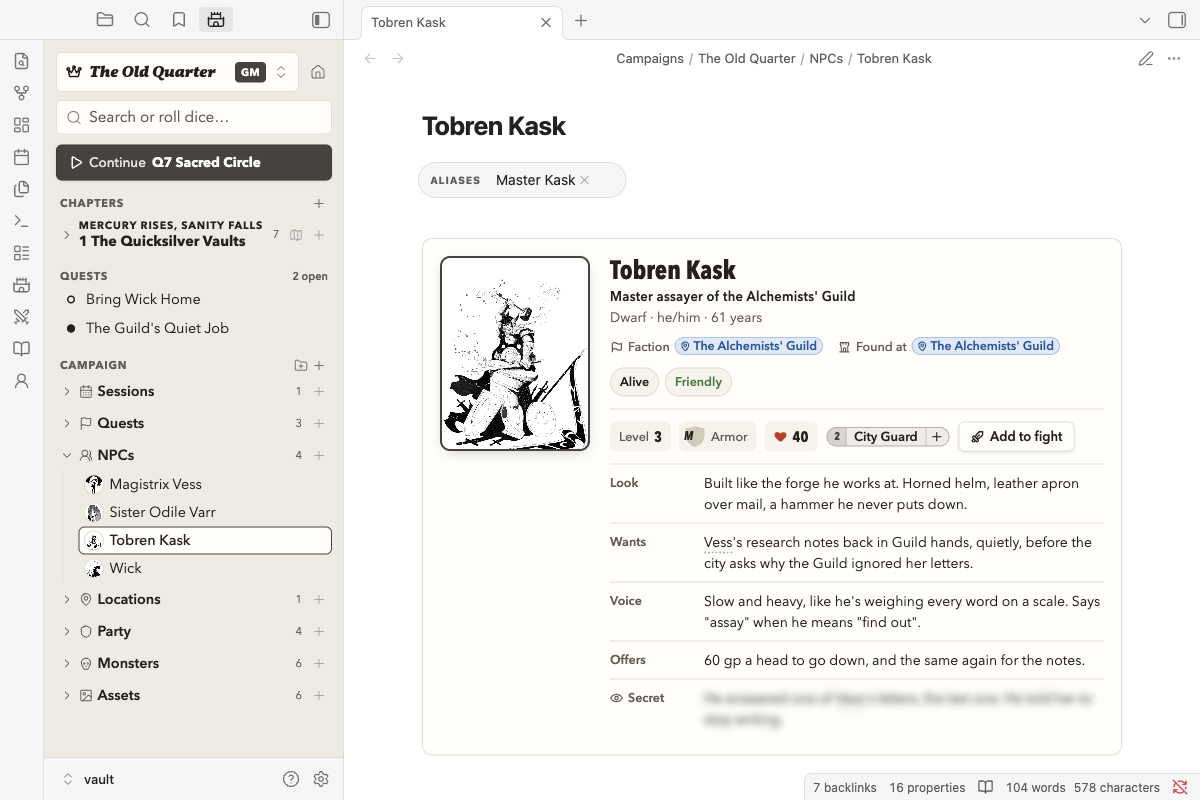
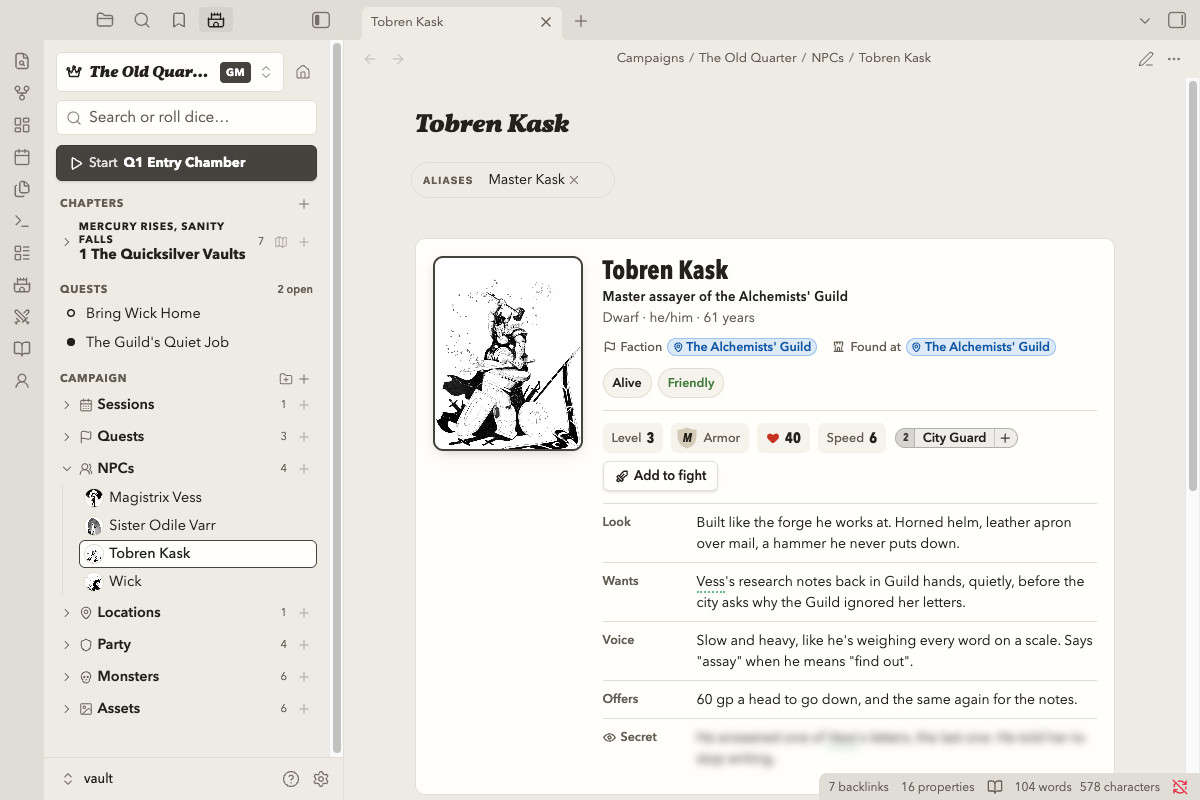
🛡 Nimble stat blocks and NPC cards always show armor and speed
No armor and speed 6 were left off, so a GM had to remember the defaults, and a
player who wrote `armor: none` or `movement: 6` thought the lines were lost (#31).
Stat blocks now show the dashed shield for no armor and the speed every time, and
an NPC's card adds their speed beside level, armor and HP. The card's shield
letter sat against the shield's left edge; it's centred now.

diff --git a/prototypes/design-study/src/71-nimble-sheets.js b/prototypes/design-study/src/71-nimble-sheets.js
@@ -262,7 +262,7 @@ Object.assign(DEFS.nimble, {
 	block: {
 		title: 'Monster blocks', lede: 'A regular monster and a legendary one, drawn like the GM’s Guide: a box with cut corners, the name in heavy italic small caps with its level beside it, HP in a red heart, the armor shield with its letter, passives on a khaki ribbon that pokes out past the box, and for legendaries the after-each-hero actions beside Bloodied and Last Stand.',
 		research: { cards: [
-			{ t: 'Regular monsters (GMG pp.25, 33–34)', li: [['Name and level inline; icons on the right for armor (M/H), HP and speed; defaults (no armor, speed 6) are left off.', S('GMG p.33', '#')], ['Passives in a pointed grey banner; actions as one line, "(2×)", bullet choices ending in OR, or Then: sequences.', S('GMG p.34', '#')], ['Minions: no HP, any damage kills one; one die each, no crits, miss on a 1.', S('GMG p.25', '#')]] },
+			{ t: 'Regular monsters (GMG pp.25, 33–34)', li: [['Name and level inline; icons on the right for HP, armor (M/H, a dash for none) and speed, always shown so the GM never has to remember the defaults.', S('GMG p.33', '#')], ['Passives in a pointed grey banner; actions as one line, "(2×)", bullet choices ending in OR, or Then: sequences.', S('GMG p.34', '#')], ['Minions: no HP, any damage kills one; one die each, no crits, miss on a 1.', S('GMG p.25', '#')]] },
 			{ t: 'Legendary monsters (GMG pp.43–47)', li: [['A kicker ("Level 4 Solo Human Criminal"), the big name, icons for HP, armor and saves.', S('GMG p.45', '#')], ['"Actions: after each hero’s turn, choose one", 2–3 bullets, one may be "(1 use)"; then Bloodied at half HP and Last Stand, numbers in red.', S('GMG p.45', '#')]] },
 			{ t: 'The plugin today', li: [['The renderer labels legendary actions "Legendary:" where the book says "Actions:"; armor uses the 3.x draft numbers (−10 / −20).', S('src/systems/nimble/render.ts', '../src/systems/nimble/render.ts')]] },
 		], borrow: ['The khaki ribbon that pokes out of the box', 'Cut corners on the box', 'Names in heavy italic small caps, level in small caps beside', 'Filled icons: heart for HP, shield with M or H for armor', 'Actions beside Bloodied and Last Stand, numbers in red'], avoid: ['Printing default stats', 'The label "Legendary:" for the after-hero actions', 'An outline shield with a letter that floats off centre'], direction: ['<b>The book’s block, every number a roll.</b> Draft rules called out where they differ.'] },

diff --git a/src/systems/nimble/npc-card.ts b/src/systems/nimble/npc-card.ts
@@ -1,7 +1,7 @@
 // What Nimble draws in an NPC's card (core's ```nimble-npc), for the GM: the level, the armor
-// letter on its shield, HP in a heart, a link to the monster block the NPC uses (a nimble:
-// reference, with its hover card and quick look) and Add to fight, which puts the NPC in the
-// tracker under its own name. Players see none of it.
+// letter on its shield (a dash for none), HP in a heart, its speed, a link to the monster block
+// the NPC uses (a nimble: reference, with its hover card and quick look) and Add to fight, which
+// puts the NPC in the tracker under its own name. Players see none of it.
 
 import type EmberVaultPlugin from '../../../main';
 import { pill } from '../../core/pill';
@@ -11,6 +11,7 @@ import type { NoteCardContext } from '../../core/note-kinds';
 import { armorGlyph, heartGlyph } from './book-glyphs';
 import { createInlineRef } from './inline-ref';
 import { npcMonster, statblockName } from './npc';
+import { parseMovement } from './parser';
 import { formatLevel } from './rules';
 import { nimble } from './runtime';
 
@@ -29,14 +30,15 @@ export function drawNpcNimble(plugin: EmberVaultPlugin, el: HTMLElement, ctx: No
 			s.createSpan({ cls: 'nimble-npc-stat-label', text: 'Level' });
 			s.createSpan({ cls: 'nimble-npc-stat-value', text: lvl });
 		}
-		if (monster.armor !== 'none') {
-			const s = row.createSpan({ cls: 'nimble-npc-stat is-armor' });
-			armorGlyph(s, monster.armor);
-			s.createSpan({ cls: 'nimble-npc-stat-label', text: 'Armor' });
-		}
+		const armor = row.createSpan({ cls: 'nimble-npc-stat is-armor' });
+		armorGlyph(armor, monster.armor);
+		armor.createSpan({ cls: 'nimble-npc-stat-label', text: 'Armor' });
 		const hp = row.createSpan({ cls: 'nimble-npc-stat is-hp', attr: { 'aria-label': `${monster.hp} HP` } });
 		heartGlyph(hp, 14);
 		hp.createSpan({ cls: 'nimble-npc-stat-value', text: String(monster.hp) });
+		const speed = row.createSpan({ cls: 'nimble-npc-stat is-speed' });
+		speed.createSpan({ cls: 'nimble-npc-stat-label', text: 'Speed' });
+		speed.createSpan({ cls: 'nimble-npc-stat-value', text: parseMovement(monster.movement).display ?? '6' });
 	}
 	// The block it uses, as a reference: hover for the block, click for the quick look.
 	if (ref) row.appendChild(createInlineRef(plugin, ref, ctx.path));

diff --git a/tests/nimble-block.test.ts b/tests/nimble-block.test.ts
@@ -33,9 +33,9 @@ describe('the book block', () => {
 		expect(b.classList.contains('ev-sys-nimble')).toBe(true);
 		expect(b.querySelector('.monster-kicker')?.textContent).toBe('Level 3 Legendary · Large · Swamp Matron');
 		expect(b.querySelector('h2.monster-name')?.textContent).toBe('Old Mother Grell');
-		// HP in the heart, the armor letter; speed 6 is the default and is left off.
-		expect([...b.querySelectorAll('.monster-badges .badge-value')].map(x => x.textContent)).toEqual(['100', 'M']);
-		expect(b.querySelector('.move-badge')).toBeNull();
+		// HP in the heart, the armor letter, and speed 6 shown even though it's the default.
+		expect([...b.querySelectorAll('.monster-badges .badge-value')].map(x => x.textContent)).toEqual(['100', 'M', '6']);
+		expect(b.querySelector('.move-badge')?.getAttribute('aria-label')).toBe('Speed 6');
 		expect(b.querySelectorAll('.saves-badge .nb-tri.is-up').length).toBe(1);
 		expect(b.querySelectorAll('.saves-badge .nb-tri.is-down').length).toBe(1);
 		expect(b.querySelector('.ability-item')?.textContent).toBe('Slick Hide. Grapples against her are made with disadvantage.');
@@ -54,7 +54,10 @@ describe('the book block', () => {
 		} as unknown as NimbleMonster;
 		const b = renderStatblock(document.createElement('div'), hound, opts);
 		expect(b.querySelector('.monster-title')?.textContent).toBe('BramblehoundLvl 3, Beast');
-		expect(b.querySelector('.armor-badge')).toBeNull();
+		// No armor still shows: an outline shield with a dash.
+		expect(b.querySelector('.armor-badge')?.classList.contains('is-none')).toBe(true);
+		expect(b.querySelector('.armor-badge')?.getAttribute('aria-label')).toBe('No armor');
+		expect(b.querySelector('.armor-badge .badge-value')?.textContent).toBe('–');
 		expect(b.querySelector('.move-badge .badge-value')?.textContent).toBe('8');
 		expect(b.querySelector('.actions-intro')?.textContent).toBe('Choose 1');
 		expect(b.querySelector('.actions-list')?.classList.contains('is-choice')).toBe(true);

diff --git a/src/systems/nimble/render.ts b/src/systems/nimble/render.ts
@@ -202,7 +202,8 @@ function header(block: HTMLElement, m: NimbleMonster, opts: RenderOptions): void
 	}
 
 	// Icons on the right, as the book sets them: HP in a red heart, the armor shield with its letter,
-	// speed, saves as triangles. Defaults (no armor, speed 6) are left off.
+	// speed, saves as triangles. No armor (a dash on an outline shield) and speed 6 show too, so the GM
+	// never has to remember the defaults.
 	const badges = top.createDiv({ cls: 'monster-badges' });
 	if (role !== 'minion') {
 		const hp = badges.createSpan({ cls: 'stat-badge hp-badge' });
@@ -216,13 +217,11 @@ function header(block: HTMLElement, m: NimbleMonster, opts: RenderOptions): void
 			hp.createSpan({ cls: 'badge-value', text: String(m.hp) });
 		}
 	}
-	if (m.armor !== 'none') armorGlyph(badges, m.armor, 'armor-badge');
-	const movement = parseMovement(m.movement);
-	if (movement.display) {
-		const sp = badges.createSpan({ cls: 'stat-badge move-badge', attr: { 'aria-label': `Speed ${m.movement}` } });
-		setIcon(sp.createSpan({ cls: 'badge-icon' }), evIcon('footprints'));
-		sp.createSpan({ cls: 'badge-value', text: movement.display });
-	}
+	armorGlyph(badges, m.armor, 'armor-badge');
+	const speed = parseMovement(m.movement).display ?? '6';
+	const sp = badges.createSpan({ cls: 'stat-badge move-badge', attr: { 'aria-label': `Speed ${m.movement?.trim() || '6'}` } });
+	setIcon(sp.createSpan({ cls: 'badge-icon' }), evIcon('footprints'));
+	sp.createSpan({ cls: 'badge-value', text: speed });
 	const saves = monsterSaves(m);
 	if (saves) {
 		const sv = badges.createSpan({ cls: 'saves-badge', attr: { 'aria-label': `Saves: ${saves.replace(/-/g, '−')}` } });

diff --git a/styles.css b/styles.css
@@ -3341,6 +3341,10 @@ body.is-tablet button.nimble-npc-fight { padding: 0 12px; }
 :is(.nimble-npc-stat, .nimble-npc-link, .nimble-statblock .stat-badge, .nimble-statblock .save-mark, .ev-cq-kicker, .ev-cq-stamp, .ev-cq-change, .ev-cq-loot-item, .ev-cq-secret-label, .ev-cq-read-label, .ev-cq-mons-label, .campaign-quest):not(#nimble-pill) > :is(span, div) { display: inline-flex; align-items: center; line-height: normal; }
 :is(.nimble-npc-stat, .nimble-npc-link, .nimble-statblock .stat-badge, .nimble-statblock .save-mark, .ev-cq-kicker, .ev-cq-stamp, .ev-cq-change, .ev-cq-loot-item, .ev-cq-secret-label, .ev-cq-read-label, .ev-cq-mons-label, .campaign-quest):not(#nimble-pill) svg { display: block; flex: 0 0 auto; }
 
+/* The NPC card's armor shield keeps its own grid: the shared rule above would make it a flex row and push the
+   letter (or the dash for none) to the shield's left edge. */
+.nimble-npc-stat:not(#nimble-pill) > .nb-armor.nb-armor { display: inline-grid; place-items: center; }
+
 /* 5e: the card's gold hairline and gold-leaf corners, the portrait in gold rims, Garamond small caps. */
 .ev-sys-dnd5e .nimble-npc-card { background: var(--ev-surface) var(--x5-glow); box-shadow: inset 0 0 0 1px var(--x5-gold-soft), var(--x5-card-shadow); padding: 20px; }
 .ev-sys-dnd5e .nimble-npc-card::after { content: ""; position: absolute; inset: 3px; border: 1px solid color-mix(in srgb, var(--x5-gold-soft) 60%, transparent); border-radius: 5px; pointer-events: none; }

diff --git a/docs/npcs.md b/docs/npcs.md
@@ -28,7 +28,7 @@ An NPC whose `location:` is a place shows on that place's card, under **Who's he
 
 ## Character cards
 
-![Tobren Kask's card: his portrait, role, ancestry and age, faction and where he's found, Alive and Friendly, his level, armor, HP and stat block with Add to fight, then his rows](images/npc-card.png)
+![Tobren Kask's card: his portrait, role, ancestry and age, faction and where he's found, Alive and Friendly, his level, armor, HP, speed and stat block with Add to fight, then his rows](images/npc-card.png)
 
 A `nimble-npc` block shows the NPC as a card in your campaign's look: the portrait, the name, the role, the quick facts and pills, the game's numbers, then rows of your own.
 
@@ -55,9 +55,11 @@ In a Nimble campaign, an NPC can carry the book's numbers, for when the party en
 | Property | Example | On the card |
 |---|---|---|
 | `level:` | `level: 3` | Level 3 |
-| `armor:` | `armor: M` (or `medium`, `H`, `heavy`, `none`) | The armor letter on its shield |
+| `armor:` | `armor: M` (or `medium`, `H`, `heavy`, `none`) | The armor letter on its shield, a dash for none |
 | `hp:` | `hp: 40` | HP in a heart |
 | `statblock:` | `statblock: City Guard` (or `[[City Guard]]`) | The monster block they fight with, as a reference: hover it for the block, click it for a quick look |
+
+The card also shows their speed: their stat block's, or 6 without one.
 
 **Add to fight** puts the NPC in the tracker under their own name, with the stat block's attacks and the NPC's own level, armor and HP on top. With no stat block, HP is enough. The GM sees all of this; players never do. In a 5e campaign, NPCs get a small character sheet instead: see [Playing 5e](5e.md#npcs).
 

diff --git a/docs/bestiary.md b/docs/bestiary.md
@@ -28,7 +28,7 @@ Write `` `nimble:Goblin` `` (inline code) anywhere in a note. It shows as a refe
 Stat blocks are drawn the way the GM's Guide draws them, in notes, the compendium, hover cards and the tracker's quick look:
 
 - the name in heavy italic small caps, with the level, size and type beside it (above it for a solo or legendary monster)
-- HP in a red heart, the armor shield with its letter (M or H; no armor shows nothing), speed when it isn't 6, and saves as their stat with ▲ or ▼
+- HP in a red heart, the armor shield with its letter (M or H, a dash for no armor), speed, and saves as their stat with ▲ or ▼
 - passives on a khaki ribbon, and "Choose 1" with an "or" between choices
 - a solo's actions beside **Bloodied** and **Last Stand**, with the HP they happen at in red
 - an icon for each damage type in resistances and vulnerabilities
@@ -73,7 +73,7 @@ Each line is a field, a colon, then its value. Lists (attacks, abilities) are a 
 | `size:`, `type:` | Shown beside the name (above it for a solo). | `size: Large` |
 | `hp:` | A number, or HP per hero for a solo. | `hp: 28/hero` |
 | `armor:` | `none`, `medium` (M) or `heavy` (H). | `armor: M` |
-| `movement:` | Speed 6 is the default and isn't shown. | `movement: 8, climb 6` |
+| `movement:` | Speed 6 if you leave it out. | `movement: 8, climb 6` |
 | `saves:` | Advantaged and disadvantaged saves. | `saves: STR+ WIL-` |
 | `attacks:` | A heading, then one attack per line. | `- **Bite.** 2d6+2.` |
 | `abilities:` | A heading, then one ability per line, name then colon. | `- Keen Nose: Can't be surprised.` |

diff --git a/CHANGELOG.md b/CHANGELOG.md
@@ -6,6 +6,15 @@ New work goes under `## [Unreleased]`, sorted into Added, Changed and Fixed. A l
 
 ## [Unreleased]
 
+### Changed
+
+- Nimble stat blocks always show armor and speed. No armor is an outline shield with a dash, and a monster with no speed written shows 6, so you don't have to remember the defaults. See the [bestiary guide](docs/bestiary.md#how-a-stat-block-looks).
+- A Nimble NPC's card shows their speed next to their level, armor and HP, and shows the dashed shield when they have no armor. See the [NPC guide](docs/npcs.md#an-npcs-numbers).
+
+### Fixed
+
+- The armor letter on a Nimble NPC's card sits in the middle of its shield. It was pushed against the shield's left edge.
+
 ## [2.1.1] - 2026-11-22
 
 ### Fixed
